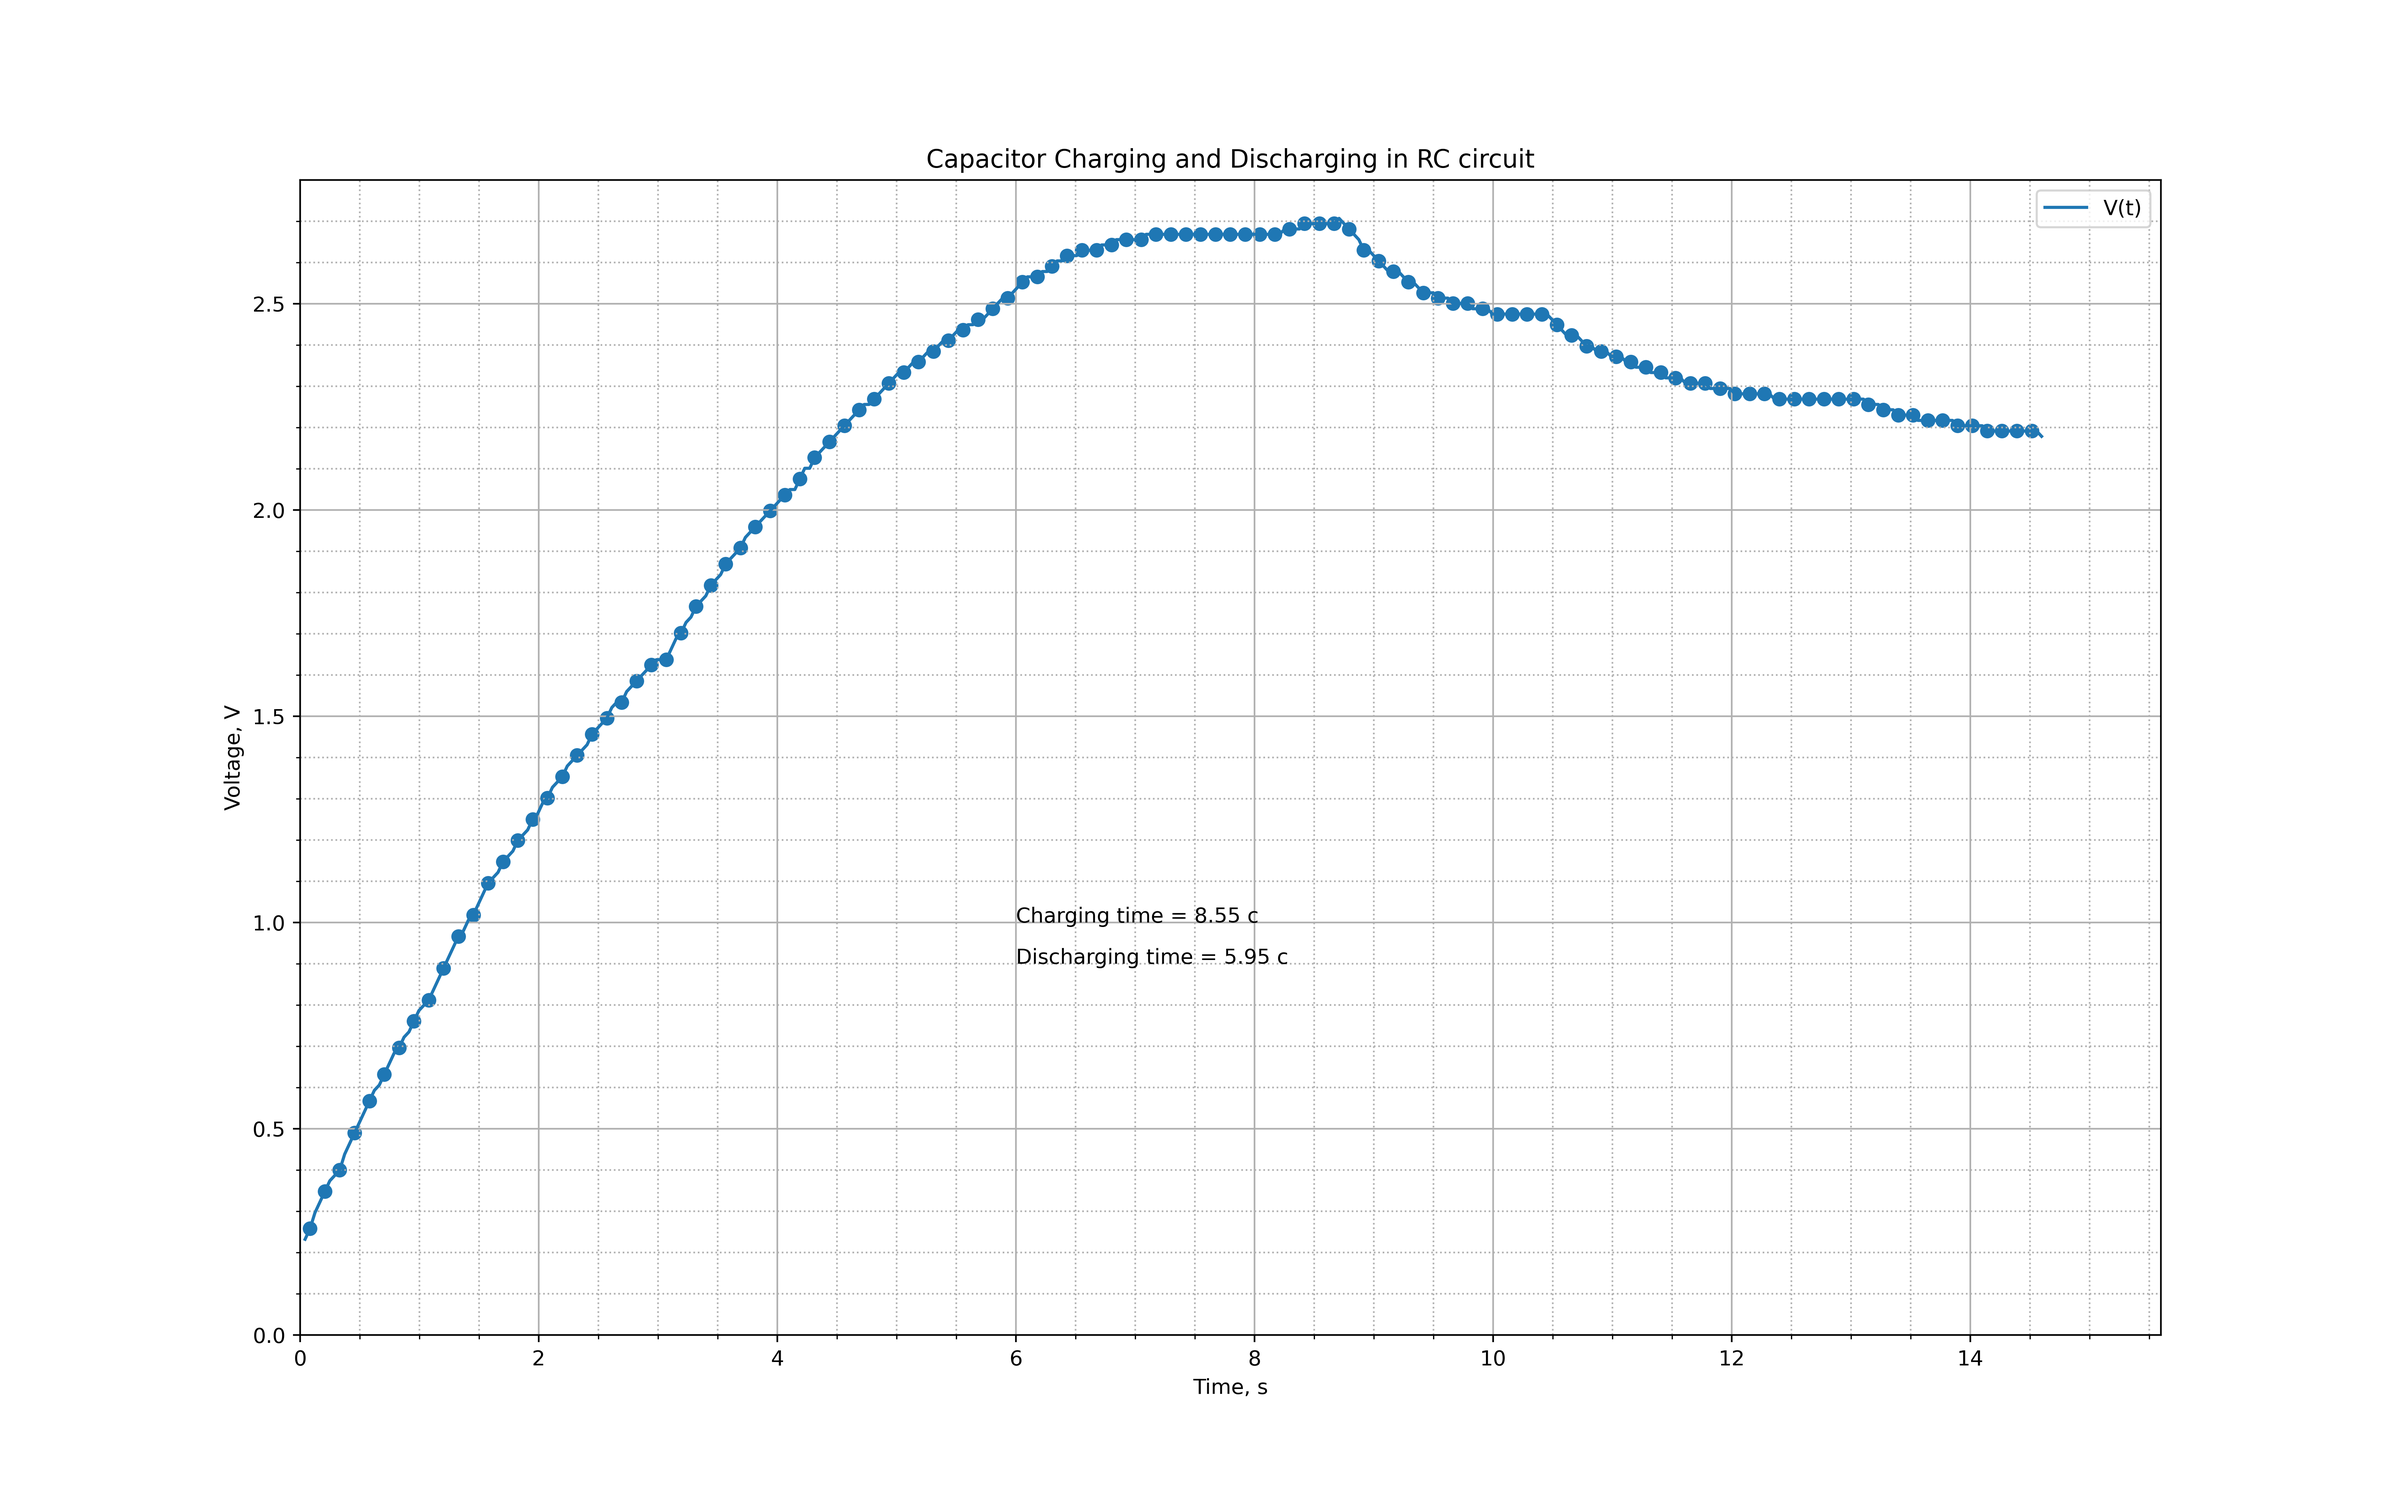
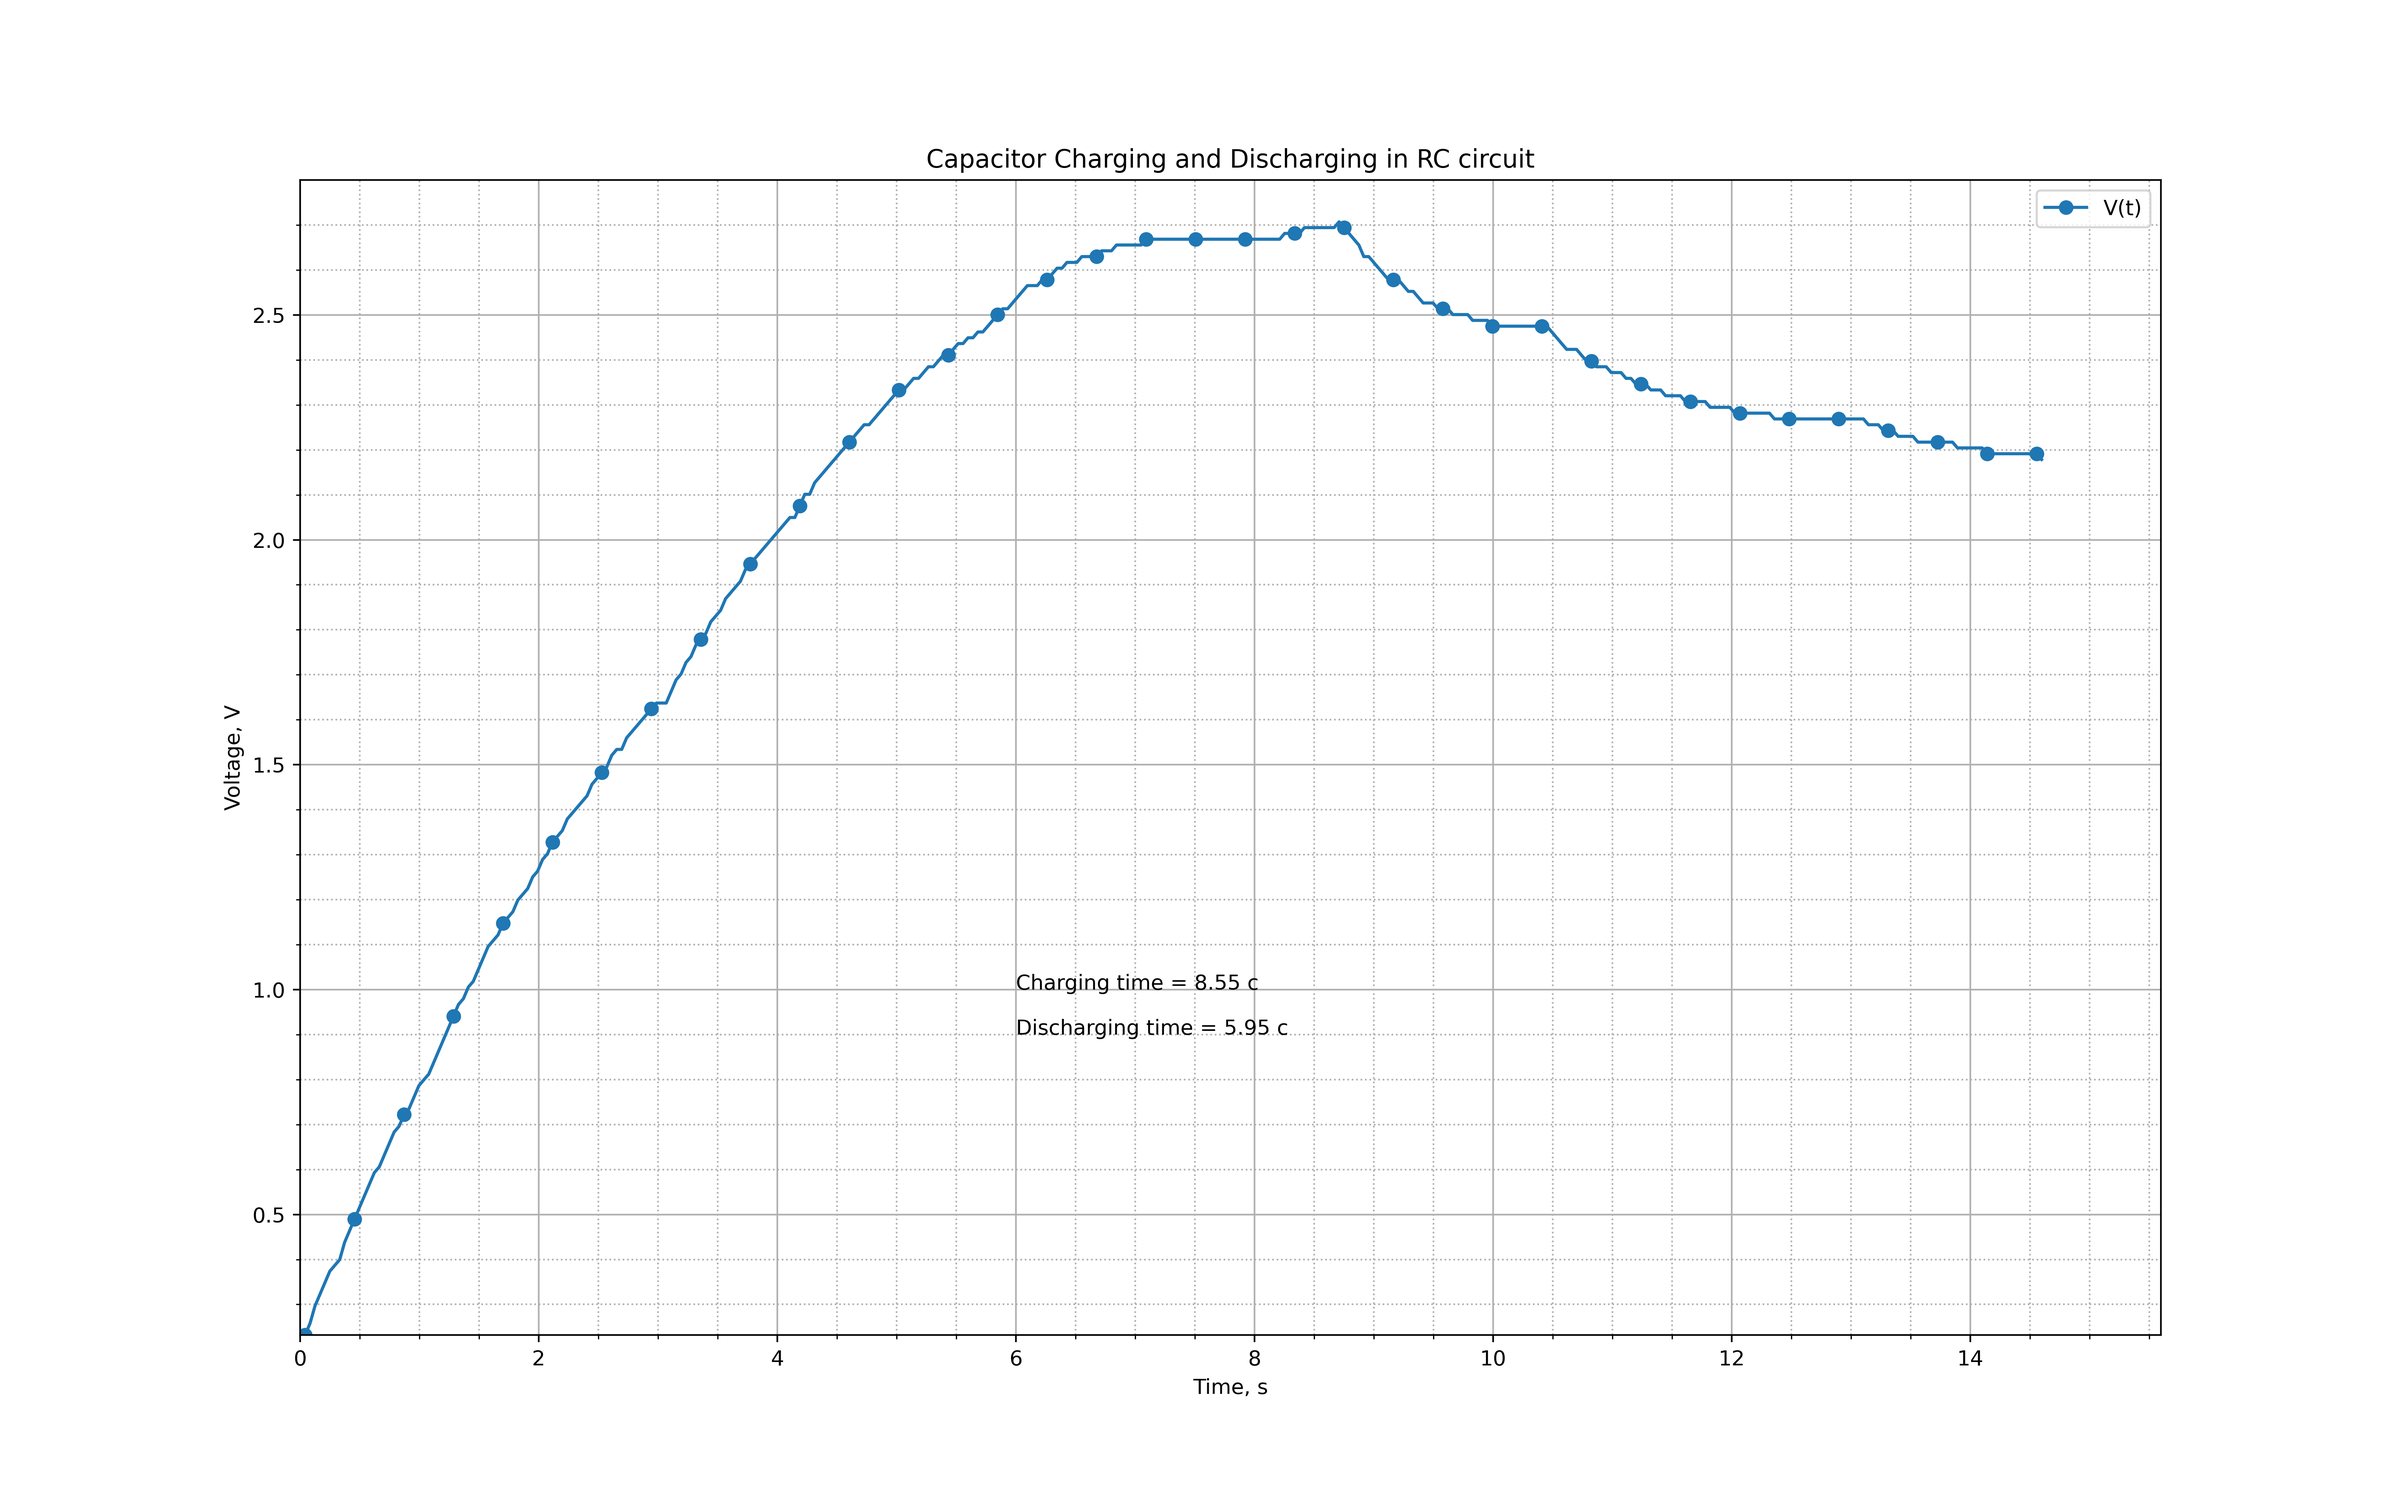
Redacted Lesson 8

diff --git a/Lesson_8/8-1.py b/Lesson_8/8-1.py
@@ -13,11 +13,11 @@ fig, ax = plt.subplots(figsize=(16, 10), dpi=400)
 ax.set_xlabel('Time, s')
 ax.set_ylabel('Voltage, V')
 plt.xlim(0, max(x) + 1)
-plt.ylim(0, 2.8)
+plt.ylim(min(data), 2.8)
 plt.title('Capacitor Charging and Discharging in RC circuit')
 
-ax.plot(x, data, label='V(t)')
-ax.scatter(x[1::3], data[1::3])
+ax.plot(x, data, marker = 'o', label='V(t)', markevery=10)
+#ax.scatter(x[1::3], data[1::3])
 plt.legend()
 
 plt.minorticks_on() #turn on minorsticks 
